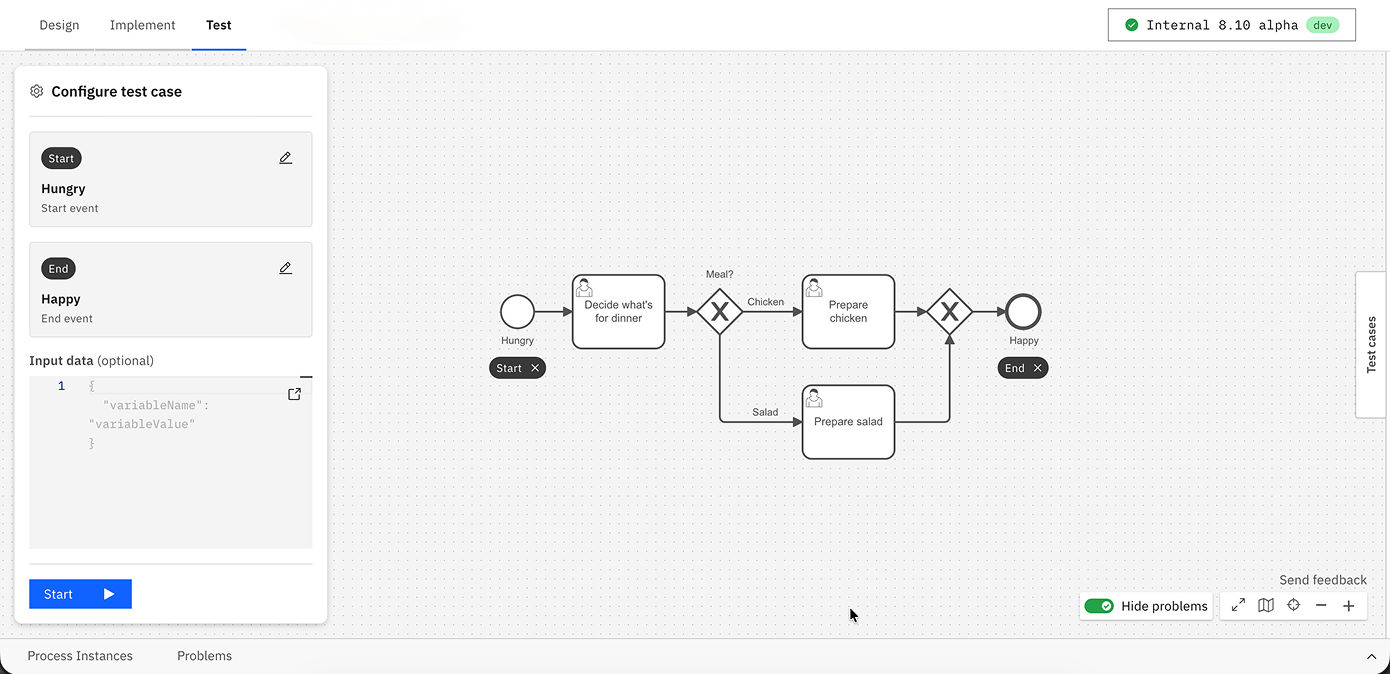
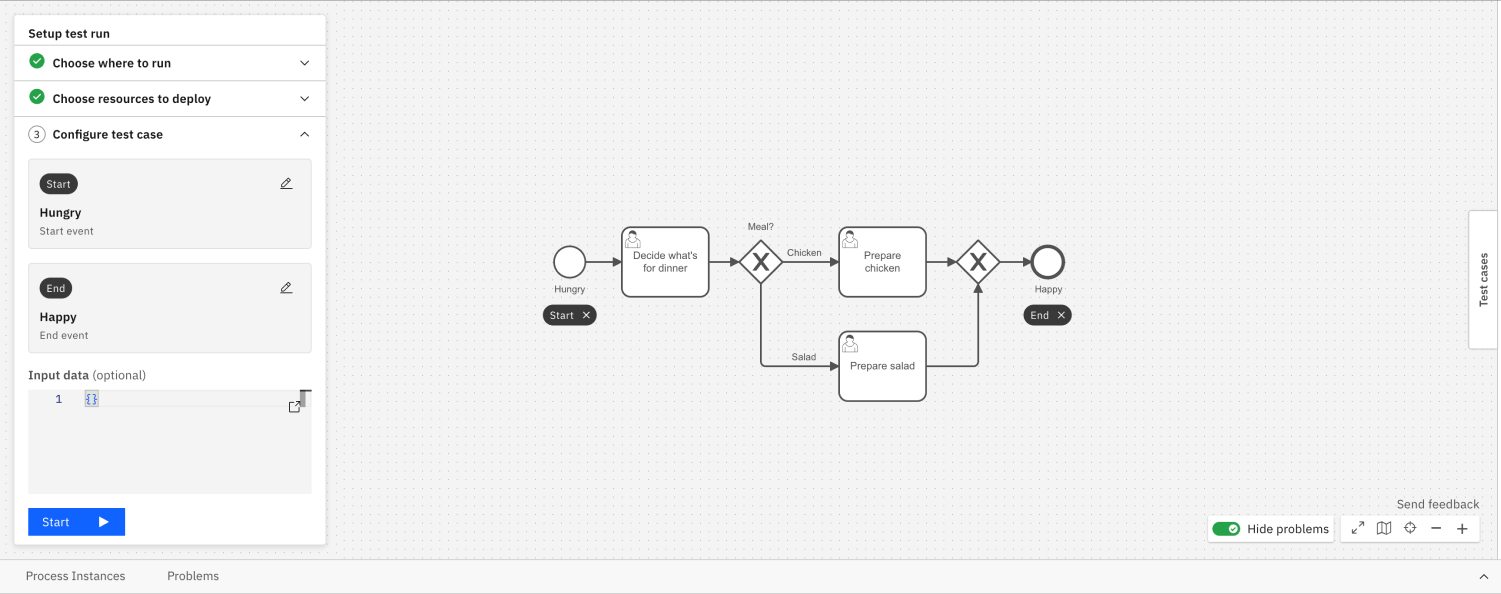
docs(modeler): rework Test mode setup flow to match Setup test run panel
Rewrite the deploy scope and Configure test case sections to match the
real Setup test run panel (Choose where to run, Choose resources to
deploy, Configure test case), add screenshots for each step, document
the optional end boundary, and fold segment definition into the
Configure test case step.

diff --git a/docs/components/hub/workspace/modeler/validation/test-your-process.md b/docs/components/hub/workspace/modeler/validation/test-your-process.md
@@ -17,16 +17,7 @@ Select any environment configured for your project as your test target. In SaaS,
 Test mode executes real process logic against the selected cluster, including connectors, messages, and other external actions. If you target a production cluster, this can affect live data and external systems.
 :::
 
-Opening the **Test** tab no longer deploys your process automatically. Click **Deploy** to deploy the current version of your process to the selected cluster. Once deployed, you can run or create test cases.
-
-If the open BPMN file is part of a process application, choose a deploy scope before deploying:
-
-- **This resource** — deploys only the open file. An info alert reminds you that referenced resources, such as called processes, DMN files, or forms, must be deployed separately, or test runs fail with a `not found` incident.
-- **All resources** — deploys the whole process application, including dependencies like called processes or DMN files.
-
-Files outside a process application deploy as **All resources** only; no scope choice is shown.
-
-The tile matching what is already deployed on the cluster is marked **Deployed**, and its **Deploy** button is disabled until you switch to the other tile. In read-only mode, **This resource** is disabled.
+Opening the **Test** tab no longer deploys your process automatically. Use the **Setup test run** panel to connect a cluster, deploy, and configure a test case — see [Get started with Test mode](#get-started-with-test-mode) for the full flow.
 
 The selected cluster name is shown in the Test action bar. Click it to switch clusters without leaving Test mode; the newly selected cluster becomes the deployment and execution target.
 
@@ -53,33 +44,36 @@ If [authorizations](/components/admin/authorization.md) are enabled on the clust
 
 ## Get started with Test mode
 
-![Test mode process definition view showing the Configure test case overlay](../img/test-definition.png)
+When you open the **Test** tab for the first time in a process, the **Setup test run** panel guides you through three steps: **Choose where to run**, **Choose resources to deploy**, and **Configure test case**.
 
-When you open the **Test** tab for the first time in a process, a panel guides you through three collapsible steps: **Choose where to run**, **Deploy process**, and **Configure test case**. Completing a step expands the next one.
+### 1. Choose where to run
 
-Once **Deploy process** succeeds, it shows a **Successfully deployed** badge, or a failure badge if the deploy fails, and the panel automatically collapses the setup steps and scrolls to **Configure test case**.
+![Setup test run panel showing the Choose where to run step with a Connect cluster button](../img/test-choose-where-to-run.png)
 
-![Configure test case panel](../img/test-configure-test-case.png)
+Click **Connect cluster** and select a target cluster. Once the cluster is healthy, it advances to the next step.
 
-In the **Configure test case** panel, select the start and end elements that define the segment of the process you want to test. Click the selected start event to configure how the process should start — the panel shows various options depending on its Start event type:
+### 2. Choose resources to deploy
 
-- **None start event**: A JSON editor pre-filled with example data from the BPMN definition. Click **Start** to begin the process with the current variables, or **Start with Form** if the start event has a linked form.
-- **Message start event**: A **Message name** field pre-filled from the BPMN definition. Click the icon next to the field to open a **Configure Message** modal where you can set the correlation key, TTL, and message ID. The **Start** button is disabled when the message name is empty.
-- **Signal start event**: A **Signal name** dropdown pre-filled with the signal from the BPMN definition.
+![Setup test run panel showing the Choose resources to deploy step with All resources and Only this resource options](../img/test-choose-resources-to-deploy.png)
 
-**Start** is also disabled when the variables field contains invalid JSON.
+- **All resources** — deploys the whole process application, including dependencies like called processes or DMN files.
+- **Only this resource** — deploys only the open file. An info alert reminds you that referenced resources, such as called processes, DMN files, or forms, must be deployed separately, or test runs fail with a not found incident.
 
-To prefill example data, define it in the **Example data** section of the start event in **Implement** mode. See [data handling](/components/modeler/data-handling.md) for details.
+Files outside a process application deploy as **All resources** only; no scope choice is shown. In read-only mode, **Only this resource** is disabled.
 
-## Define a test segment
+Click **Deploy**. Once the deploy succeeds, the step shows a **Successfully deployed** badge, or a failure badge if the deploy fails, and the panel automatically progresses to the next step.
 
-By default, execution starts from the process start event and runs to natural completion. To focus on a specific part of your process, define a segment with a custom start and end boundary in the **Configure test case** panel.
+### 3. Configure test case
 
-### Start boundary
+![Setup test run panel showing the Configure test case step with Start and End elements and an input data editor](../img/test-configure-test-case.png)
+
+The process's start element, and an end element if the process supports one, are auto-selected to define the segment you want to test. Click the edit icon to pick a different element:
+
+#### Start boundary
 
 The start boundary defaults to the process start event. To change it:
 
-1. In the **Configure test case** panel, click the start row.
+1. In the **Configure test case** step, click the start row.
 2. Search for an element by name, or click an activatable element directly on the canvas. The selected element is highlighted with a **Start** label on the diagram.
 
 Elements before the start boundary are not activated and do not appear in the instance history.
@@ -88,18 +82,29 @@ The same element type restrictions apply as for [**Add token** modifications](#m
 
 **Publish message** and **Broadcast signal** elements don't support segment boundaries. If you select either as the start boundary, you can't select an end boundary, and the process runs until it reaches the end node naturally reached from that selected start event.
 
-### End boundary
+#### End boundary
 
-The end boundary defaults to the first end event. To change it:
+The end boundary is optional and defaults to the first end event. Click **Start** without changing it to accept the default, or change it:
 
-1. In the **Configure test case** panel, click the end row.
+1. In the **Configure test case** step, click the end row.
 2. Search for an element by name, or click an activatable element directly on the canvas. The selected element is highlighted with an **End** label on the diagram.
+3. To clear the end boundary, click the selected element again on the canvas, or select it again from the search results to deselect selection.
 
 When an end boundary is set, the process instance terminates after that element completes. Elements after it are not activated and do not appear in the instance history.
 
-### Canvas click interaction
+#### Canvas click interaction
 
 Once both boundaries are set, clicking the canvas resets the start boundary and clears the end boundary. To change only one boundary, click its row in the panel first, then click the new element on the canvas.
+
+Click the selected start event to configure how the process should start — the panel shows various options depending on its Start event type:
+
+- **None start event**: A JSON editor pre-filled with example data from the BPMN definition. Click **Start** to begin the process with the current variables, or **Start with Form** if the start event has a linked form.
+- **Message start event**: A **Message name** field pre-filled from the BPMN definition. Click the icon next to the field to open a **Configure Message** modal where you can set the correlation key, TTL, and message ID. The **Start** button is disabled when the message name is empty.
+- **Signal start event**: A **Signal name** dropdown pre-filled with the signal from the BPMN definition.
+
+**Start** is also disabled when the variables field contains invalid JSON.
+
+To prefill example data, define it in the **Example data** section of the start event in **Implement** mode. See [data handling](/components/modeler/data-handling.md) for details.
 
 :::note
 Test mode will only consider the first executable process ID in the BPMN file.
